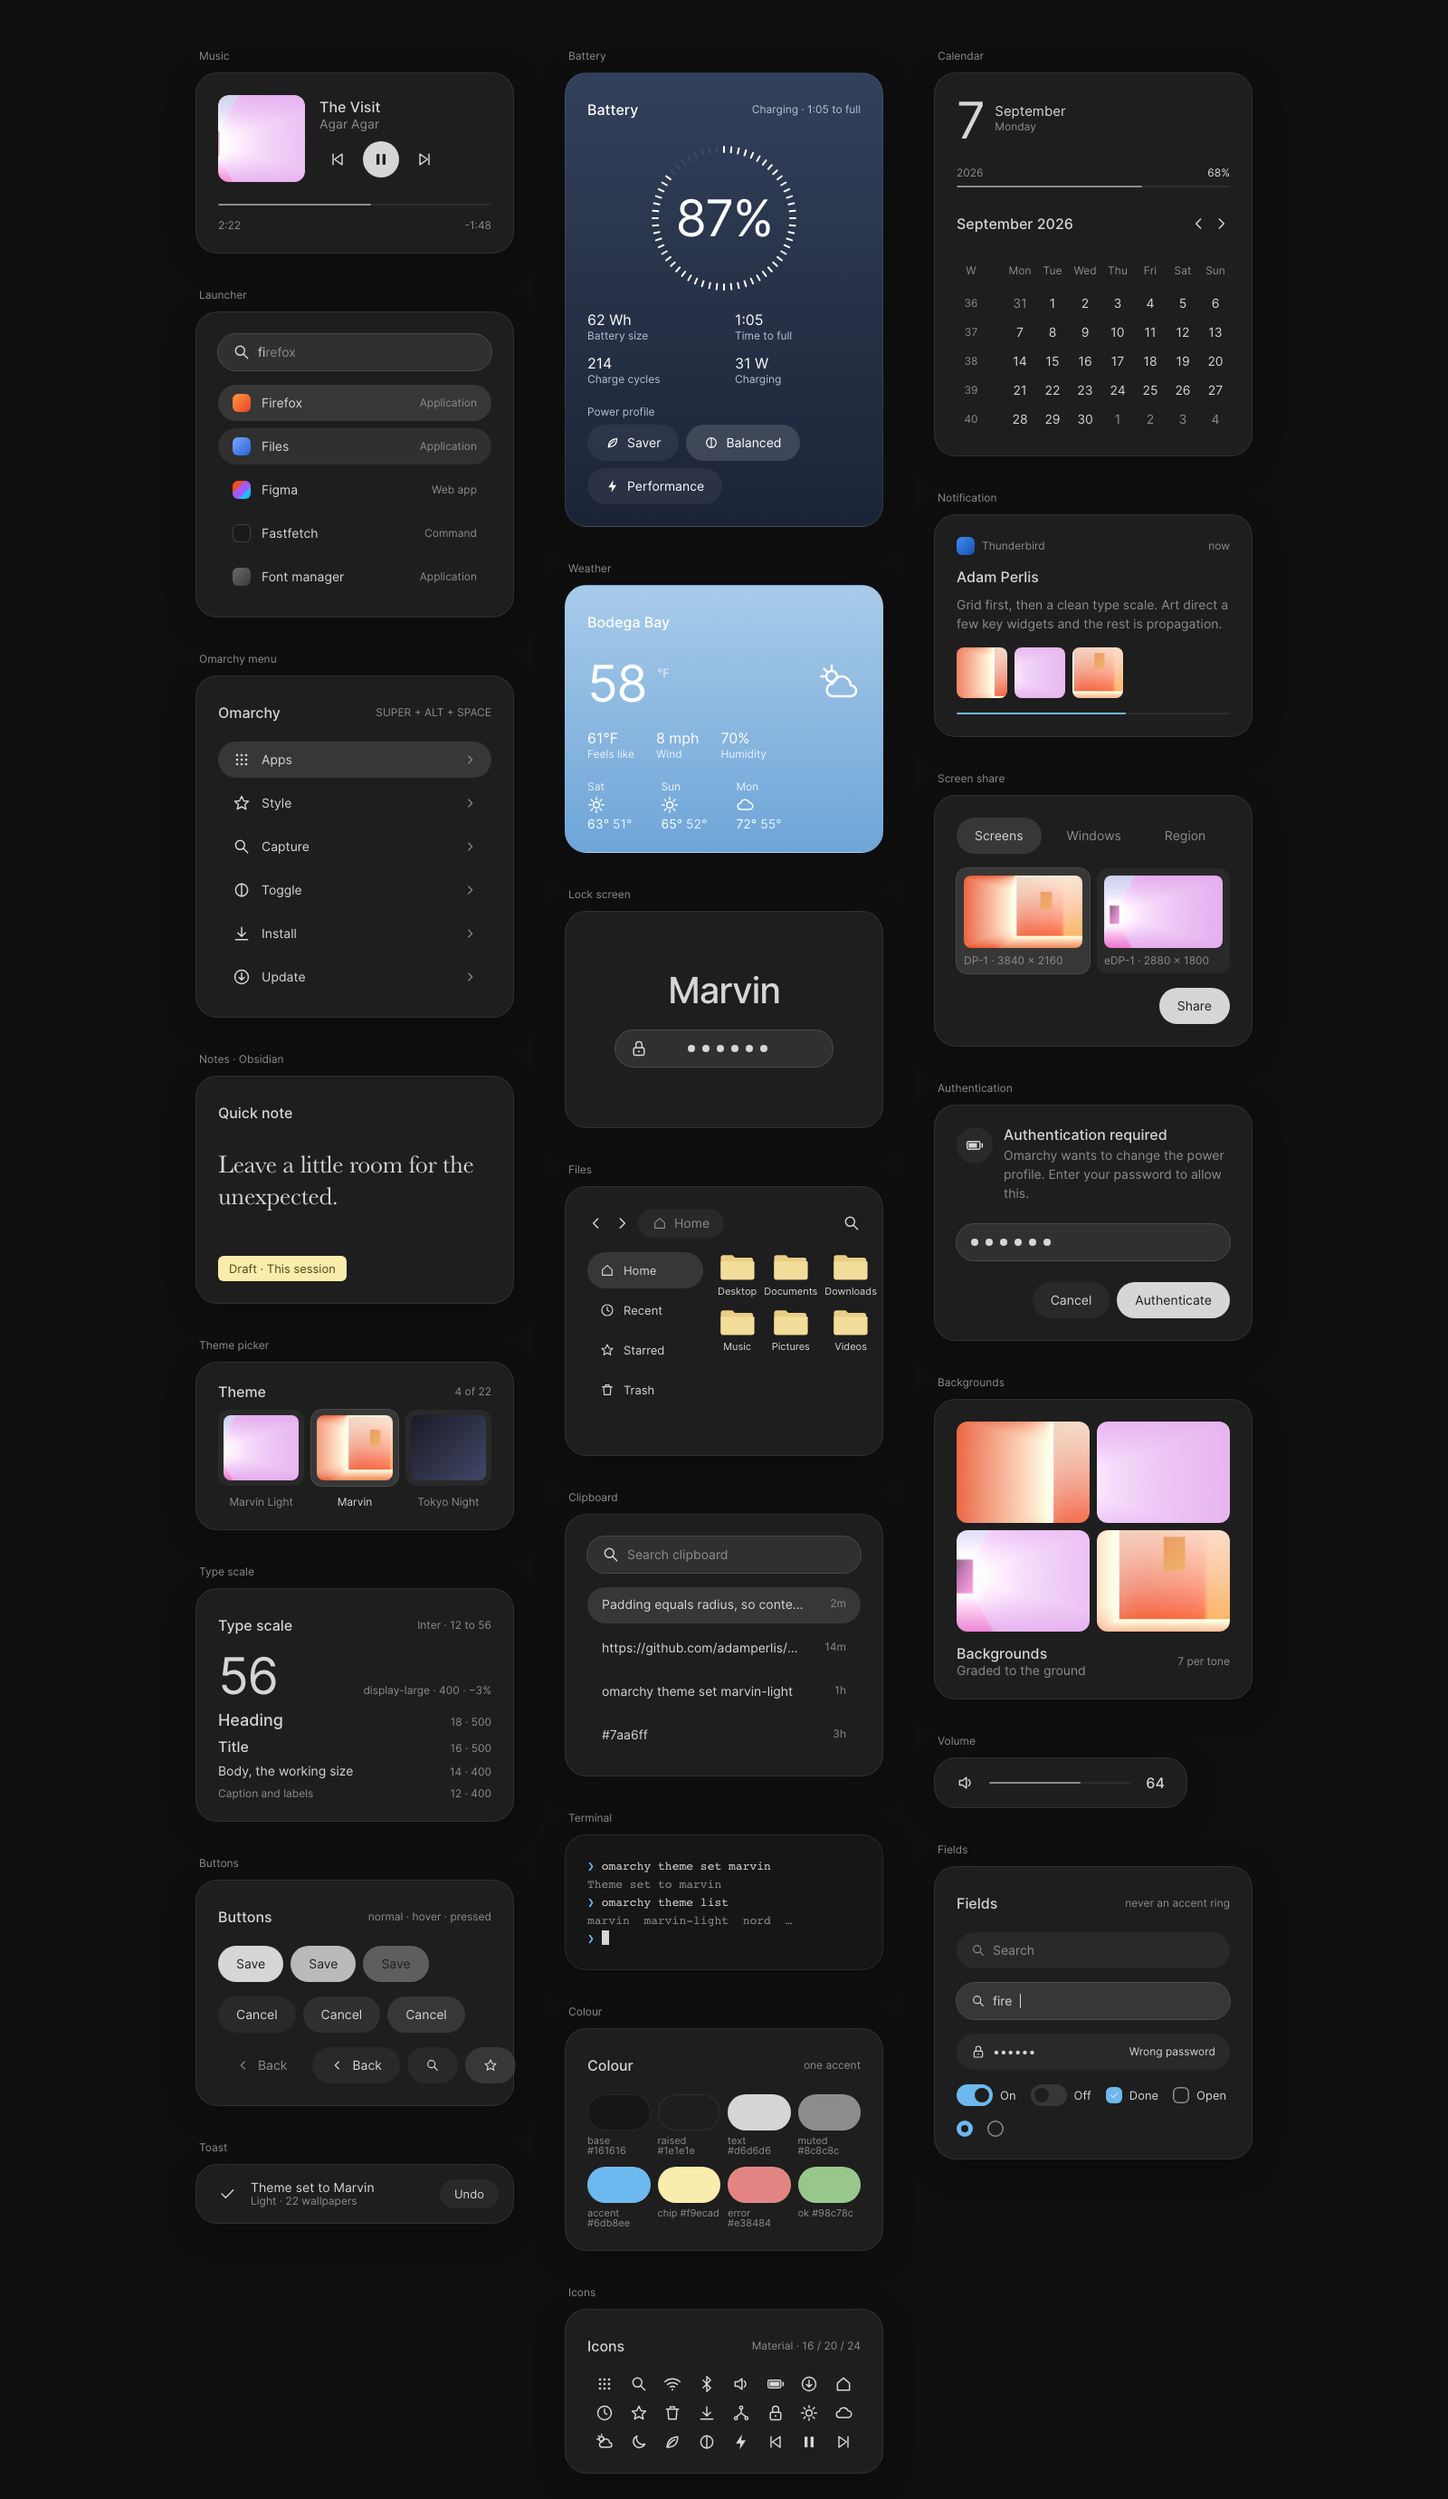
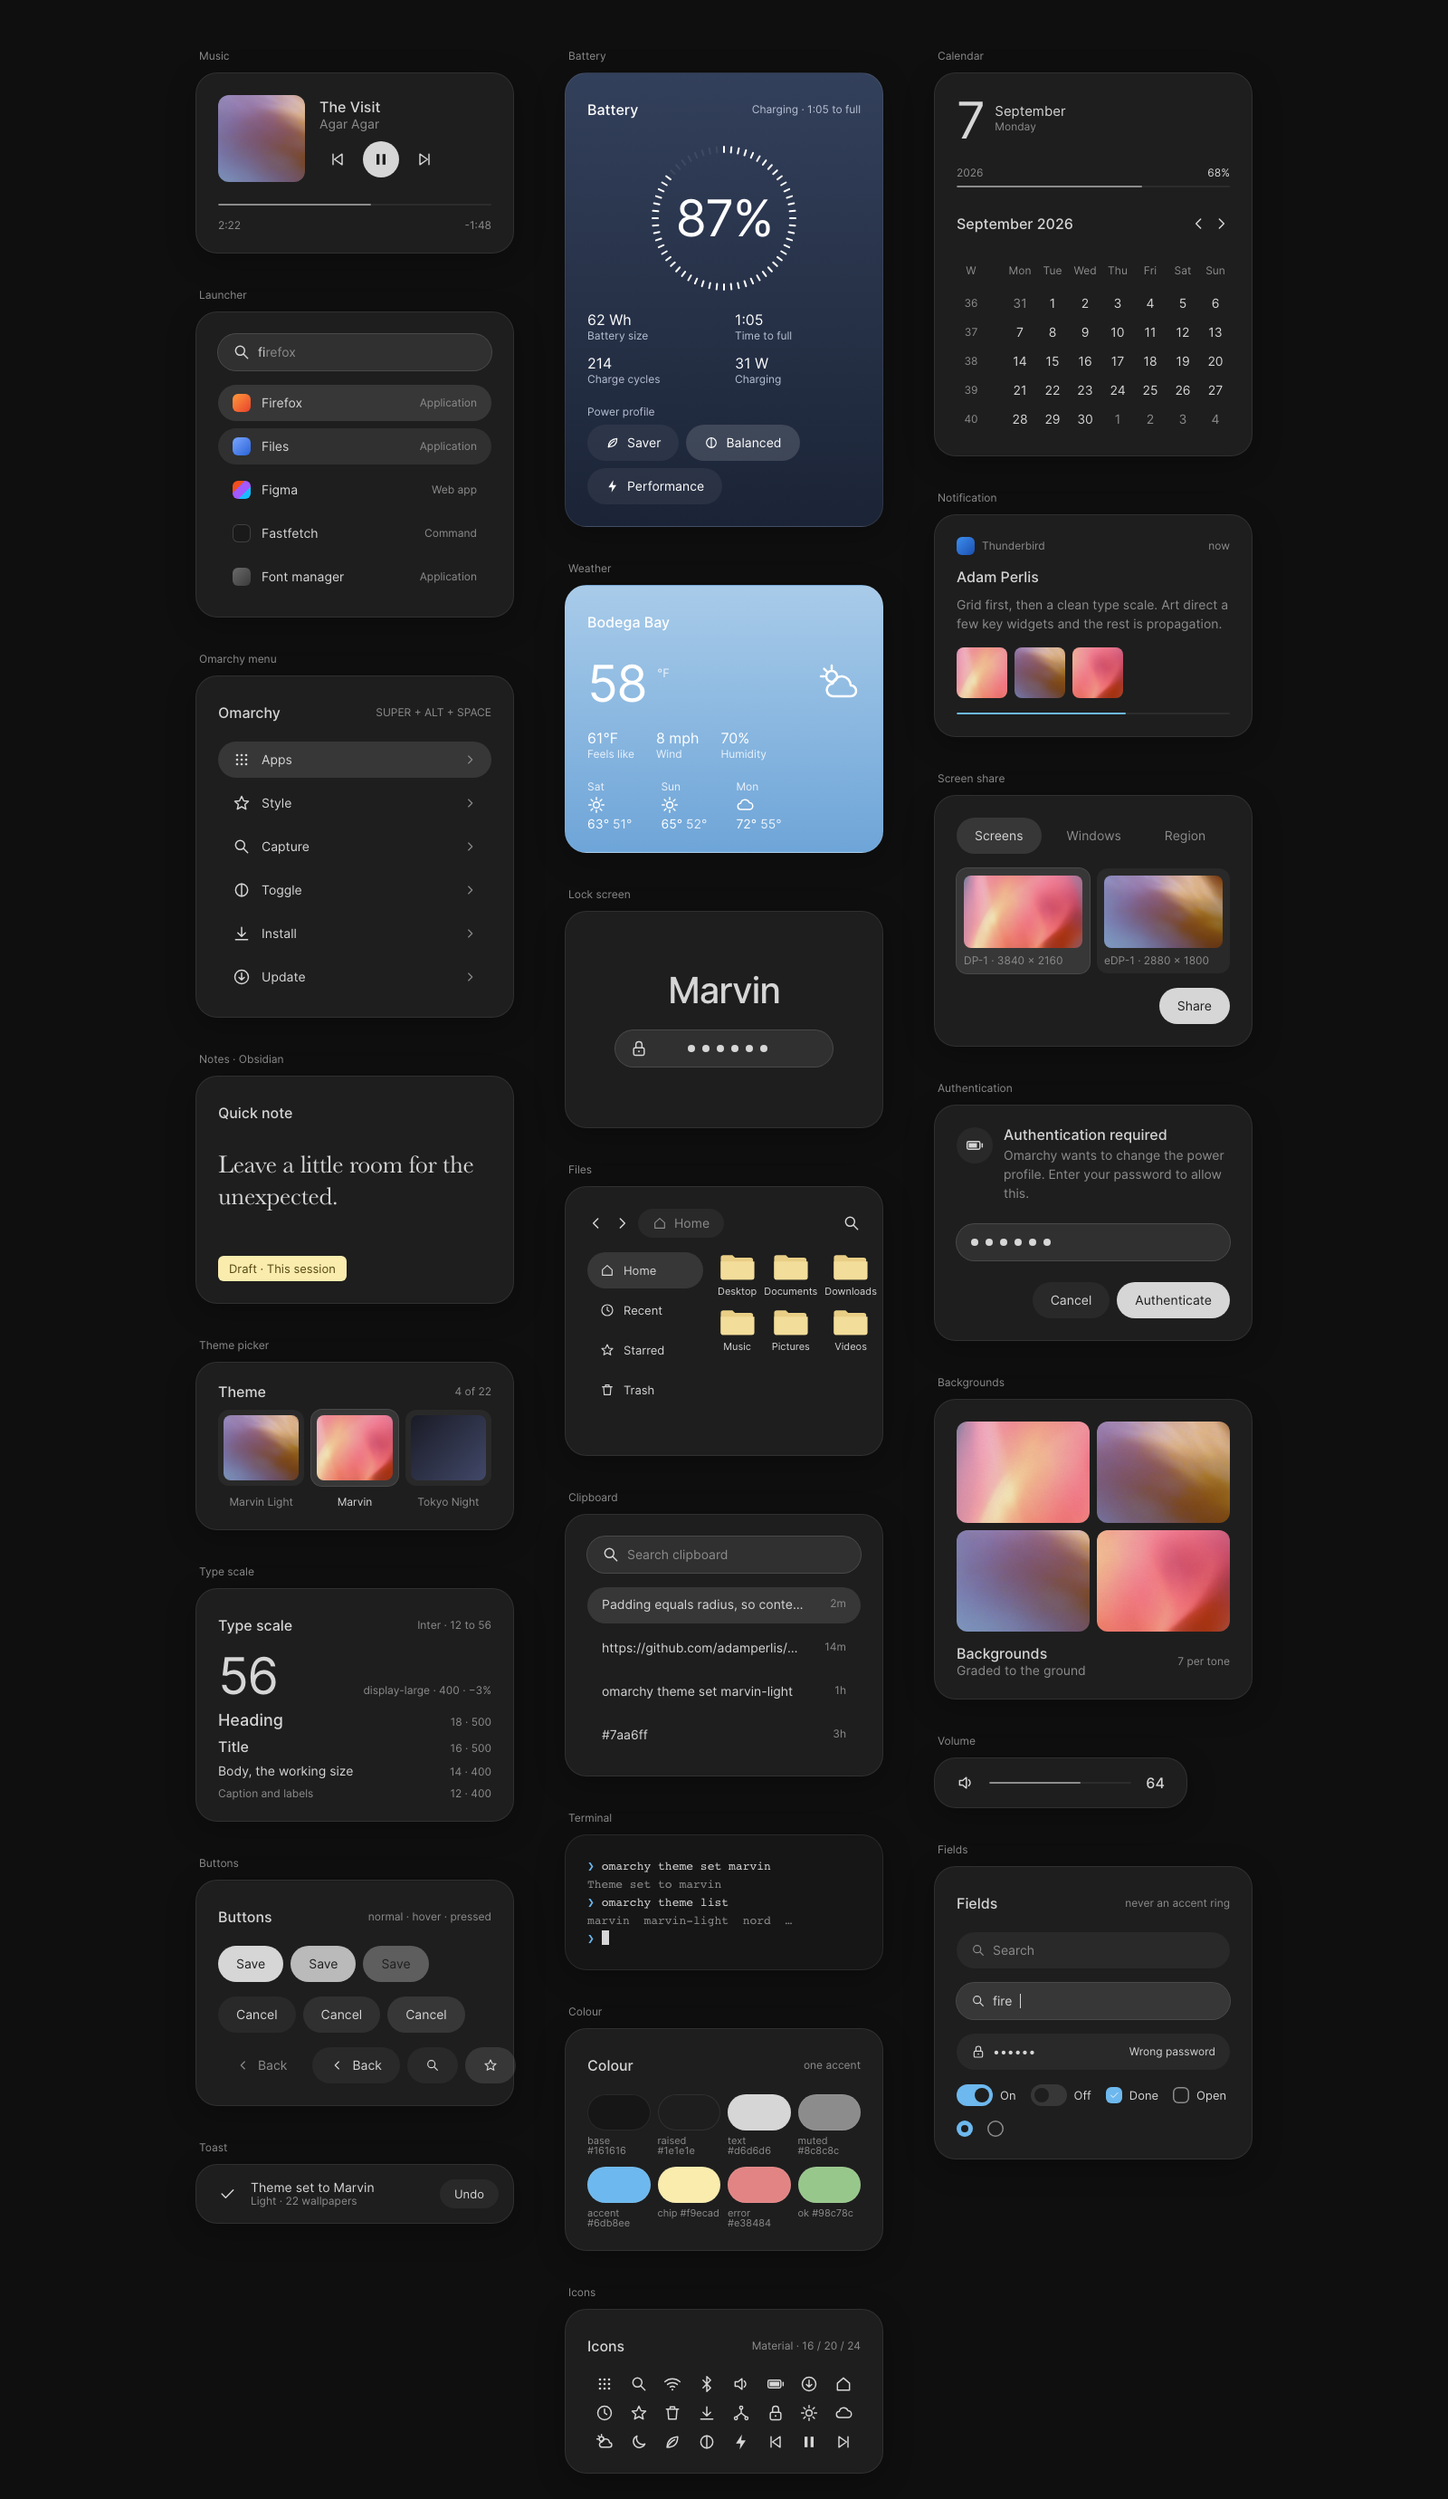
Compose the desktop as a bento grid; cool wallpaper; abstract imagery; lead with light
The desktop preview is now a true Omarchy-style tiling layout: a 3x2 bento
grid with uniform 24px gaps and equal edge margins, apps and widgets each
filling a tile — Notes and Files, a terminal and the media widget, weather and
battery. The Notes tile content is trimmed to sit cleanly in its cell.

The dark preview now sits on a cool, bluish abstraction (abstract-05) rather
than the orange one; light keeps abstract-04. In-UI imagery — album art, the
mood board, theme-picker and screen-share thumbnails, notification art — now
draws from the new abstractions instead of the old sharp room crops.

The README leads with the light composed desktop, then dark, then the grid.

diff --git a/tools/previews/build.py b/tools/previews/build.py
@@ -84,10 +84,10 @@ def tone(root, light):
     return dict(light=light, bg=c["background"], raised=c["lighter_background"], ground=c["dark_background"], fg=c["foreground"], muted=c["muted"],
                 accent=c["accent"], attn=c["attention"], red=c["red"], green=c["green"], yellow=c["yellow"], blue=c["blue"], magenta=c["magenta"], cyan=c["cyan"],
                 bright_fg=c["bright_foreground"], selection=c["selection"], ansi=[c[k] for k in ("background","red","green","yellow","blue","magenta","cyan","foreground","muted","bright_red","bright_green","bright_yellow","bright_blue","bright_magenta","bright_cyan","bright_foreground")],
-                wall=root / "backgrounds" / ("abstract-04.jpg" if light else "abstract-45.jpg"),
-                room=root / "backgrounds" / ("abstract-04.jpg" if light else "abstract-45.jpg"),
+                wall=root / "backgrounds" / ("abstract-04.jpg" if light else "abstract-05.jpg"),
+                room=root / "backgrounds" / ("abstract-04.jpg" if light else "abstract-05.jpg"),
                 walls=[(n, root / (("light/" if light else "") + f"backgrounds/{n}")) for n in WALLS],
-                arts=[(n, root / "docs/images/art" / n) for n in ARTS],
+                arts=[(n, root / "backgrounds" / n) for n in ("abstract-35.jpg", "abstract-23.jpg", "abstract-08.jpg", "abstract-50.jpg")],
                 wx=(wx["background"], wx["text"], wx["muted"], wx.get("background-end", wx["background"])),
                 sky=dict(sunset=(wx["sunset"], wx["sunset-end"], wx["sunset-muted"]), night=(wx["night"], wx["night-end"], wx["night-muted"])),
                 pw=(pw["background"], pw["text"], pw["muted"], pw.get("background-end", pw["background"])),
@@ -288,7 +288,7 @@ body{{background:url('file://{t["wall"]}') center/cover}}
 .obs{{display:grid;grid-template-columns:272px 1fr;height:100%}}.obs .sb{{background:var(--bg);padding:24px 16px;display:flex;flex-direction:column;gap:4px}}
 .obs .vault{{font-size:12px;color:var(--muted);padding:0 16px 12px}}.obs .sb .si{{height:40px;border-radius:20px;padding:0 16px;display:flex;align-items:center;gap:12px}}.obs .sb .si.on{{background:rgba(var(--fg-rgb),var(--a3));font-weight:500}}
 .obs .ed{{background:var(--raised);position:relative;padding:0}}.obs .tabs{{height:48px;display:flex;align-items:center;gap:8px;padding:8px 16px}}.obs .tab{{height:32px;padding:0 16px;border-radius:16px;display:flex;align-items:center;color:var(--muted)}}.obs .tab.on{{background:rgba(var(--fg-rgb),var(--a3));color:var(--fg);font-weight:500}}
-.obs .doc{{padding:24px 48px;max-width:640px;font-size:15px;line-height:1.5}}.obs h1{{font-size:32px;font-weight:500;letter-spacing:-.02em;margin:0 0 16px;line-height:1.15}}.obs h2{{font-size:18px;font-weight:500;margin:24px 0 8px}}.obs p{{margin:0 0 12px}}
+.obs .doc{{padding:24px 32px;max-width:640px;font-size:15px;line-height:1.5}}.obs h1{{font-size:32px;font-weight:500;letter-spacing:-.02em;margin:0 0 16px;line-height:1.15}}.obs h2{{font-size:18px;font-weight:500;margin:24px 0 8px}}.obs p{{margin:0 0 12px}}
 .obs .chk{{display:flex;align-items:center;gap:10px;margin:4px 0}}.obs .chk i{{width:16px;height:16px;border-radius:8px;border:1.5px solid var(--muted);display:inline-block}}.obs .chk i.d{{background:var(--accent);border-color:var(--accent)}}.obs .chk s{{color:var(--muted)}}
 .obs .tag{{display:inline-flex;align-items:center;height:24px;padding:0 12px;border-radius:16px;background:rgba(var(--acc-rgb),.12);color:var(--accent);font-size:13px;font-weight:500;margin-right:8px}}
 .obs code{{font-family:'JetBrains Mono';font-size:13px;background:rgba(var(--fg-rgb),var(--a1));border-radius:8px;padding:2px 6px}}.obs blockquote{{margin:12px 0;padding-left:16px;border-left:2px solid var(--accent);color:var(--muted)}}
@@ -296,28 +296,29 @@ body{{background:url('file://{t["wall"]}') center/cover}}
 .files{{display:grid;grid-template-columns:272px 1fr;height:100%;gap:0;min-height:0}}.files .sb{{width:auto;padding:24px 16px;display:flex;flex-direction:column;gap:4px;background:var(--raised)}}.files .si{{width:auto}}
 .si{{height:40px;border-radius:20px;padding:0 16px;display:flex;align-items:center;gap:12px;color:var(--fg)}}.si.on{{background:rgba(var(--fg-rgb),var(--a3))}}
 .files .main{{padding:24px}}.files .top{{display:flex;align-items:center;gap:12px;margin-bottom:24px}}.files .top .pathf{{height:40px;flex:1;border-radius:20px;background:rgba(var(--fg-rgb),var(--a1));display:flex;align-items:center;padding:0 16px;gap:8px}}
-.fgrid{{display:grid;grid-template-columns:repeat(6,1fr);gap:24px 16px}}.fd{{display:flex;flex-direction:column;align-items:center;gap:8px;font-size:11px}}
+.fgrid{{display:grid;grid-template-columns:repeat(4,1fr);gap:20px 12px}}.fd{{display:flex;flex-direction:column;align-items:center;gap:8px;font-size:11px}}
+.desk{{position:absolute;left:24px;right:24px;top:56px;bottom:24px;display:grid;gap:24px;grid-template-columns:1.35fr 1.35fr 1fr;grid-template-rows:1fr 1fr;grid-auto-flow:column}}
+.desk>.win{{position:static;width:auto;height:auto}}
+.desk>.card{{width:100%!important;height:100%!important;justify-content:center}}
 </style></head><body>
 {bar(t)}
-<div class="win focus" style="left:24px;top:56px;width:760px;height:560px">
+<div class="desk">
+<div class="win focus">
   <div class="obs"><div class="sb"><div class="vault">Notes</div>{obs_side}</div>
   <div class="ed"><div class="tabs"><div class="tab on">Principles</div><div class="tab">Grid</div><div class="tab">Motion</div></div>
   <div class="doc"><h1>Principles</h1>
-  <p>Understand the grid, set a clean type scale, art-direct a few key widgets, then propagate. After that it gets rather easy.</p>
+  <p>Understand the grid, set a type scale, art-direct a few widgets, then propagate.</p>
   <h2>Rules</h2>
-  <div class="chk"><i class="d"></i><s>Every step in a scale must be perceptible</s></div>
+  <div class="chk"><i class="d"></i><s>Every step must be perceptible</s></div>
   <div class="chk"><i class="d"></i><s>Depth from surfaces, not outlines</s></div>
   <div class="chk"><i></i>Tone is a property of each surface</div>
-  <div class="chk"><i></i>Large numerals, small labels</div>
-  <p style="margin-top:16px">Padding equals radius: <code>popup-padding = 16</code>, so content sits at the centre of the corner arc.</p>
-  <blockquote>Leave a little room for the unexpected.</blockquote>
-  <p><span class="tag">#design-system</span><span class="tag">#omarchy</span></p></div>
+  <div class="chk"><i></i>Large numerals, small labels</div></div>
   <div class="status"><span>212 words</span><span>1,280 characters</span></div></div></div>
 </div>
-<div class="win" style="left:24px;top:640px;width:760px;height:348px">
+<div class="win">
   <div class="files"><div class="sb">{side}</div><div class="main"><div class="top">{ic("chevron_left",20)}{ic("chevron_right",20)}<div class="pathf">{ic("home",16)}Home</div>{ic("search",20)}</div><div class="fgrid">{fgrid}</div></div></div>
 </div>
-<div class="win" style="left:808px;top:56px;width:480px;height:360px">
+<div class="win">
   <div class="term mono"><span class="p">❯</span> omarchy theme set marvin
 <span class="c">Theme set · radius 24 · type 12–56</span>
 <span class="p">❯</span> omarchy theme list
@@ -329,8 +330,10 @@ body{{background:url('file://{t["wall"]}') center/cover}}
 <span style="color:{t["green"]}">ok</span>  install → revert  <span class="c">byte for byte</span>
 <span class="p">❯</span> <span style="display:inline-block;width:8px;height:16px;background:var(--fg);vertical-align:-3px"></span></div>
 </div>
-<div style="position:absolute;left:808px;top:440px">{w["media"]}</div>
-<div style="position:absolute;right:24px;top:56px;display:flex;flex-direction:column;gap:24px;align-items:flex-end">{w["weather"]}{w["power"]}</div>
+{w["media"]}
+{w["weather"]}
+{w["power"]}
+</div>
 </body></html>"""
 
 def boot(t, fonts):

diff --git a/README.md b/README.md
@@ -4,6 +4,20 @@ A design system for [Omarchy 4](https://omarchy.org), delivered as a theme, a
 reversible config layer, and fourteen restyled widgets — with 63 wallpapers
 included.
 
+A composed desktop under Marvin — the Notes app, Files and a terminal
+alongside the weather, media and battery widgets:
+
+![Marvin — a composed desktop, light](light/preview.png)
+
+![Marvin — a composed desktop, dark](preview.png)
+
+Tone is a property of each surface: weather is a gradient, the battery card is
+inverted with a ring of ticks, state is a soft-fill chip, and the rest stay
+quiet.
+
+And the 63 wallpapers it ships with — blurred gradient rooms drawn from the
+palette, plus soft abstractions:
+
 ![Marvin backgrounds](docs/images/backgrounds-all.jpg)
 
 ## Install
@@ -25,17 +39,6 @@ rounding, gaps, shadow and motion, and the fourteen widget plugins — run the
 [config layer](#2-the-config-layer) once the theme is set. It snapshots
 everything first and reverts byte-for-byte; full steps are
 [below](#install-in-detail).
-
-A composed desktop under Marvin — the Notes app, Files and a terminal
-alongside the weather, media and battery widgets, over one of the wallpapers:
-
-![Marvin — a composed desktop, dark](preview.png)
-
-![Marvin — a composed desktop, light](light/preview.png)
-
-Tone is a property of each surface: weather is a gradient, the battery card is
-inverted with a ring of ticks, state is a soft-fill chip, and the rest stay
-quiet.
 
 Omarchy's stock look is assembled rather than designed: an irregular spacing
 ramp, six type sizes crammed between 10 and 16px, every surface the same
